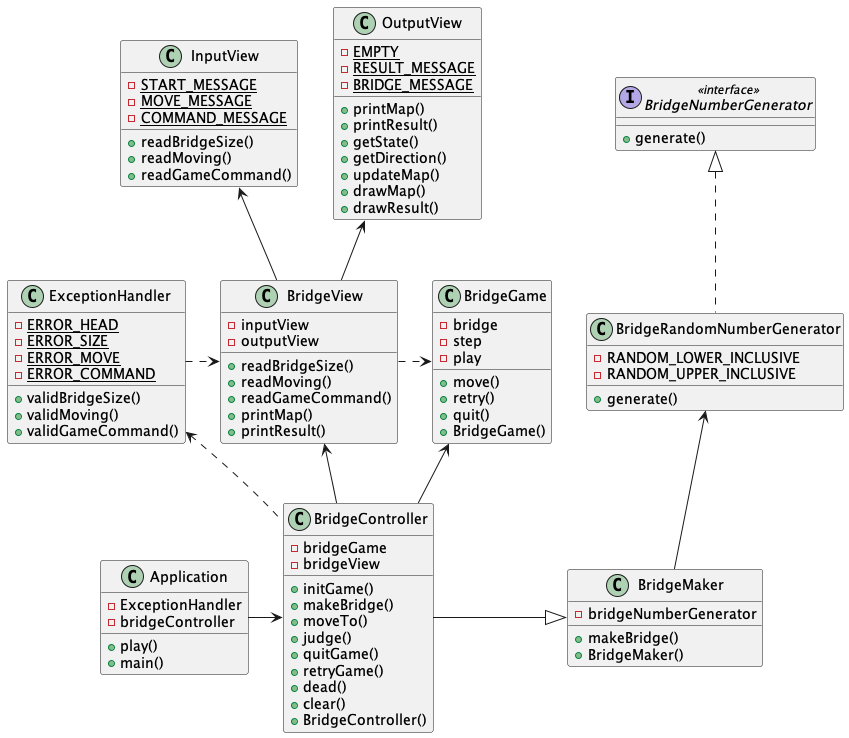
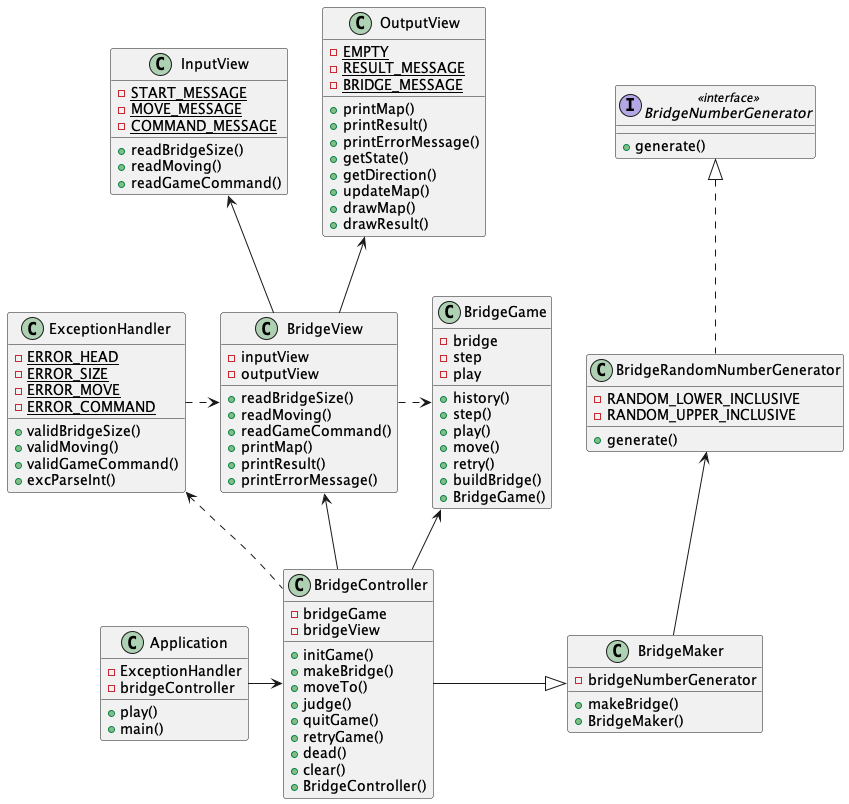
docs(java-bridge/docs): 기능 문서 및 클래스 다이어그램 수정

diff --git a/docs/README.md b/docs/README.md
@@ -17,10 +17,14 @@
 > ### Method List
 > 
 >| No. | 함수명    | 기능                                   | 
-> -----|:-------|:-------------------------------------|
->  1   | retry()| 재시작                                  |
-> | 2   | quit() | 종료                                   |
->| 3   | move() | Controller로부터 전달받은 칸으로 이동            | 
+>-----|:-------|:-------------------------------------|
+> 1   | history()| 현재까지 user가 지나온 bridge 리턴                                |
+>| 2   | step() |  step(user가 지나온 칸의 수) 리턴            |
+>| 3   | play() |  play(플레이 횟수) 리턴            |
+>| 4   | move() | Controller로부터 전달받은 칸으로 이동            |
+>| 5   | retry() | 게임 재시작           |
+>| 6   | buildBridge() | 전달받은 String List를 Glass List로 변환 후 필드에 저장            |
+
 
 
 >### 👁 BridgeView
@@ -36,11 +40,12 @@
 >3| readGameCommand() | 유저로부터 게임 진행 여부를 입력 받음                       | INPUT  |
 >4| printMap()        | 현재까지 진행한 Bridge 현황 출력                       | OUTPUT |
 >5| printResult()     | 최종 결과 출력                                    | OUTPUT |
->6| getDirection()    | Bridge와 최종 State로 유저의 이동 방향을 도출             | OUTPUT |
->7| getState() | 유저의 State를 도출, 전달받은 최종 State 외에 모두 SAFE로 처리 | OUTPUT|
->8| updateMap()       | 진행한 Bridge 현황 UI를 UP, DOWN 별로 생성            | OUTPUT |
->9|drawMap() | 현재까지 진행한 Bridge 현황 UI 생성                    | OUTPUT|
->10|drawResult()| 최종 결과 UI 생성                                 | OUTPUT|                                     
+>6| printErrorMessage() | 에러 메시지 출력 | OUTPUT|
+>7| getDirection()    | Bridge와 최종 State로 유저의 이동 방향을 도출             | OUTPUT |
+>8| getState() | 유저의 State를 도출, 전달받은 최종 State 외에 모두 SAFE로 처리 | OUTPUT|
+>9| updateMap()       | 진행한 Bridge 현황 UI를 UP, DOWN 별로 생성            | OUTPUT |
+>10|drawMap() | 현재까지 진행한 Bridge 현황 UI 생성                    | OUTPUT|
+>111|drawResult()| 최종 결과 UI 생성                                 | OUTPUT|                                     
 
 >### 🕹 BridgeController
 > * Bridge 게임을 진행하는 도메인 로직
@@ -56,20 +61,22 @@
 >3 | playGame()   | 게임 진행          | 
 >4| moveTo()     | 다음 칸으로 이동      |
 >5| judge()      | 이동한 칸이 유효한지 판정 |
->6| quitGame()   | 게임 종료          | 
->7| retryGame()  | 게임 재시작         | 
->8| dead()       | 빈 칸으로 이동해 사망   | 
+>6| dead()       | 빈 칸으로 이동해 사망   |
+>7| clear()      | 게임 클리어 |
+>7| quitGame()   | 게임 종료          | 
+>8| retryGame()  | 게임 재시작         | 
 
 
 
->### 💣 ExceptionHandler
+> ### 💣 ExceptionHandler 
 > * 예외처리
 >
 > ### Method List
 >
->| No.          | 함수명                   | 기능                       |      대상       |
->------------|:----------------------|:-------------------------|:-------------:|
->1 | validBridgeSize()     | 다리 사이즈가 올바르게 입럭되었는지 검증   | BridgeView #1 |
->2| validMoving()         | 이동 값이 올바르게 입력되었는지 검증     | BridgeView #2 |
->3| validGameController() | 게임 진행 여부가 올바르게 입력되었는지 검증 | BridgeView #3 |
+>| No.          | 함수명                   | 기능                                  |      대상       |
+>------------|:----------------------|:------------------------------------|:-------------:|
+>1 | validBridgeSize()     | 다리 사이즈가 올바르게 입럭되었는지 검증              | BridgeView #1 |
+>2| validMoving()         | 이동 값이 올바르게 입력되었는지 검증                | BridgeView #2 |
+>3| validGameController() | 게임 진행 여부가 올바르게 입력되었는지 검증            | BridgeView #3 |
+>4| excParseInt() | 입력받은 문자열의 정수로 변환이 가능한지 검증한 후 정수로 변환 | BridgeView #1 |
 
